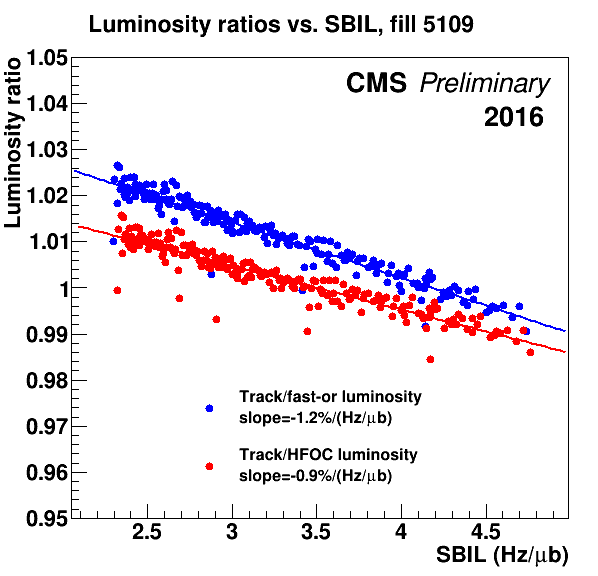
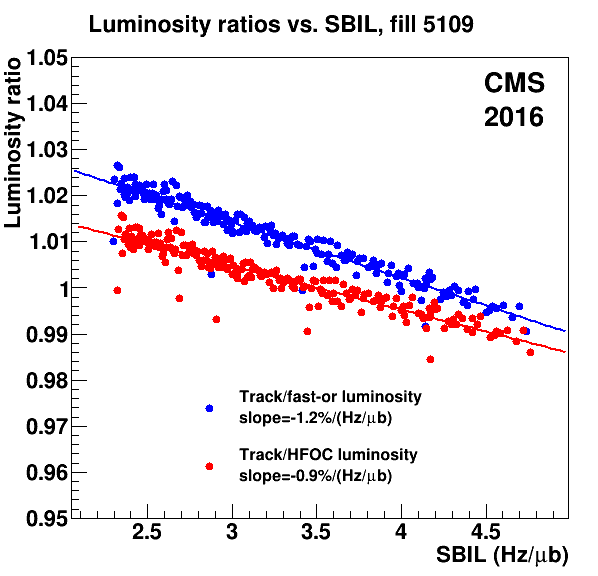
remove Preliminary from Fig. 30

Changed region(s): [[0.5719, 0.125, 0.9331, 0.1875]]

diff --git a/TrackLumi/PlotTrackLumiFillPaper.C b/TrackLumi/PlotTrackLumiFillPaper.C
@@ -299,7 +299,7 @@ void PlotTrackLumiFillPaper(void) {
 
   TText *t1 = new TText(0, 0, "CMS");
   t1->SetNDC();
-  t1->SetX(0.58);
+  t1->SetX(0.81); // 0.58 for Preliminary
   t1->SetY(0.84);
   t1->SetTextFont(61);
   t1->SetTextSize(0.05);
@@ -310,7 +310,7 @@ void PlotTrackLumiFillPaper(void) {
   t2->SetY(0.84);
   t2->SetTextFont(52);
   t2->SetTextSize(0.05);
-  t2->Draw();
+  //t2->Draw();
   TText *t3 = new TText(0, 0, "2016");
   t3->SetNDC();
   t3->SetX(0.81);
@@ -386,7 +386,7 @@ void PlotTrackLumiFillPaper(void) {
   l3->Draw();
 
   t1->Draw();
-  t2->Draw();
+  //t2->Draw();
   t3->Draw();
 
   std::string outFile = "TrackLumiVsTime_"+fillNumber+".png";
